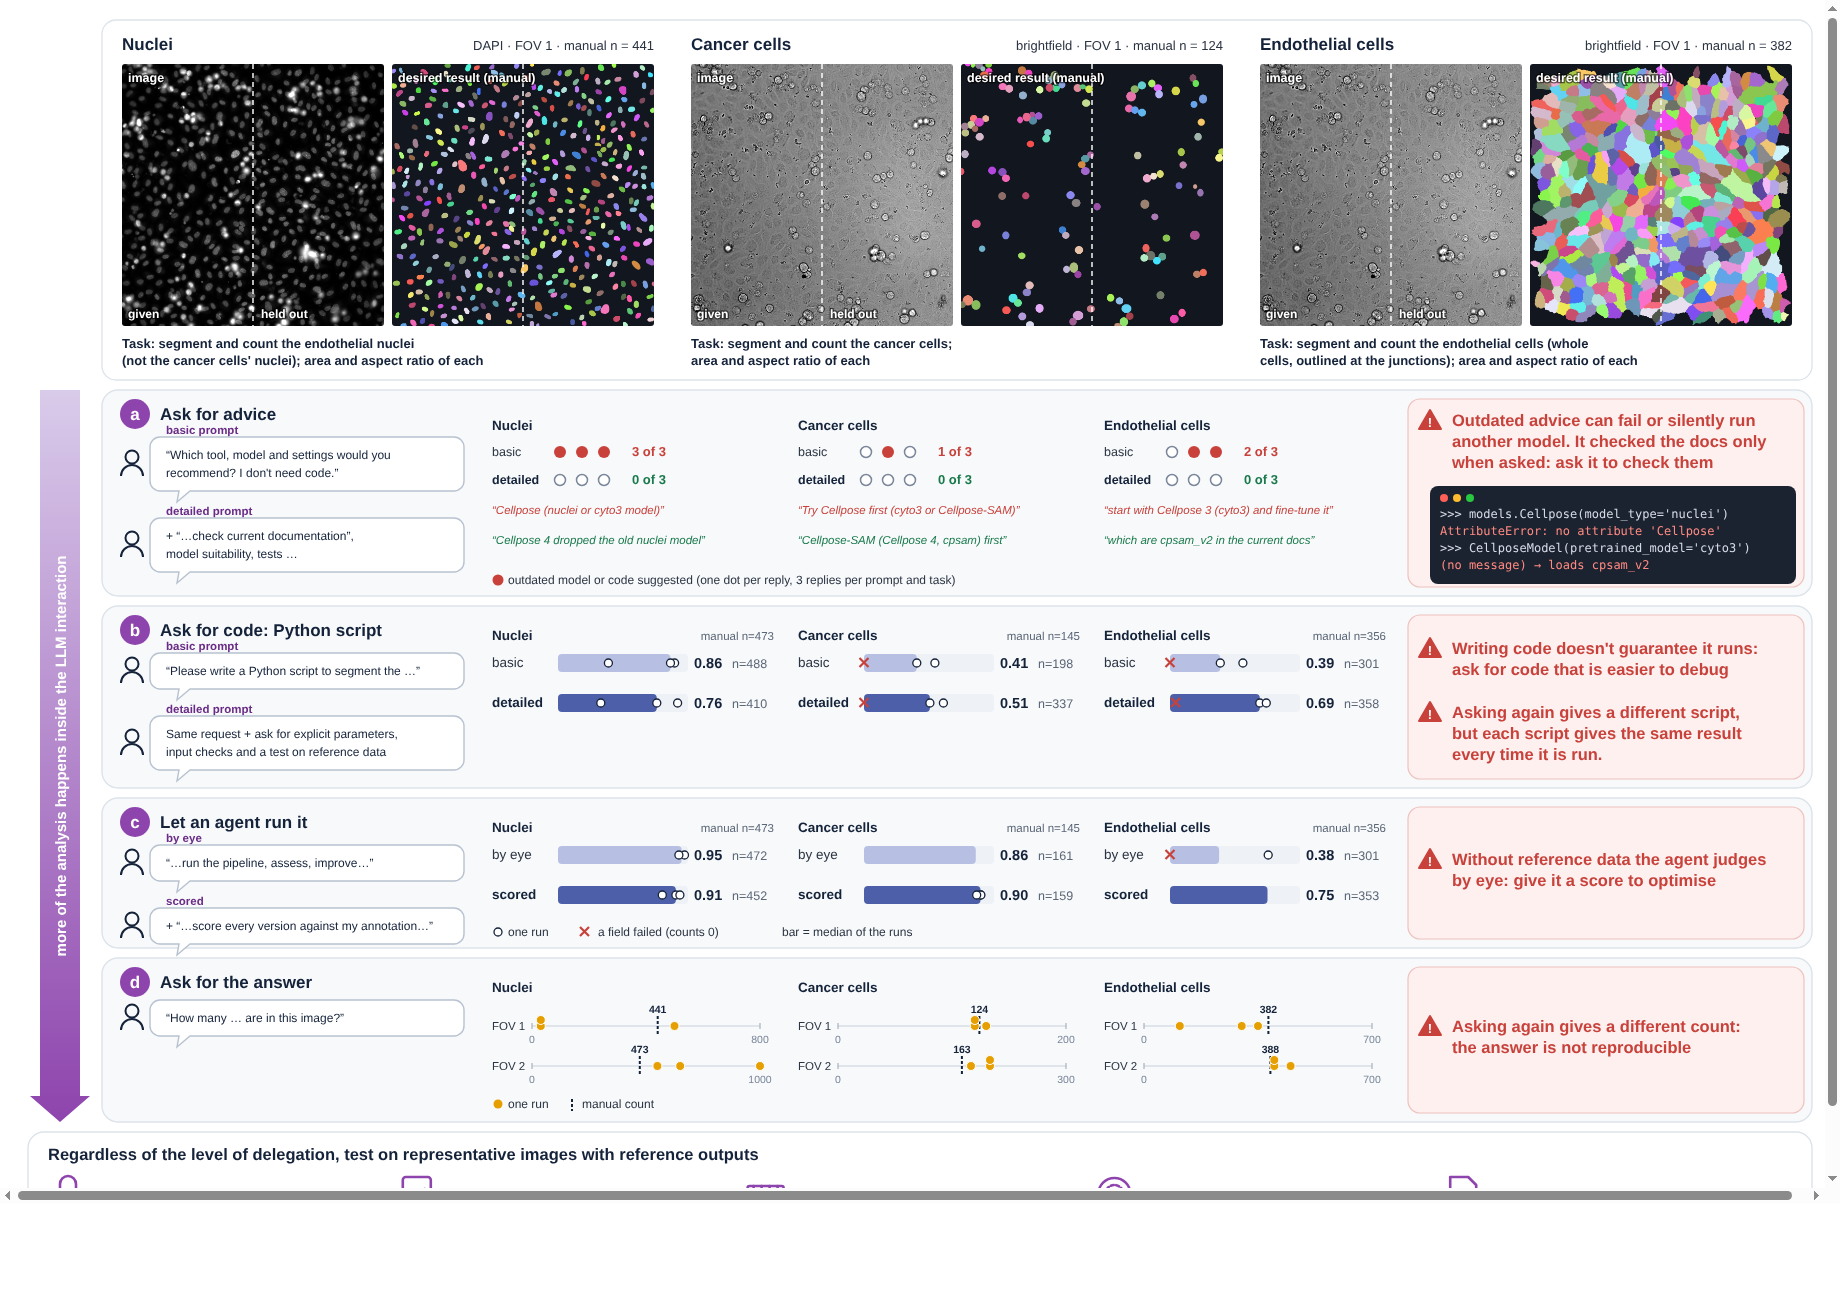
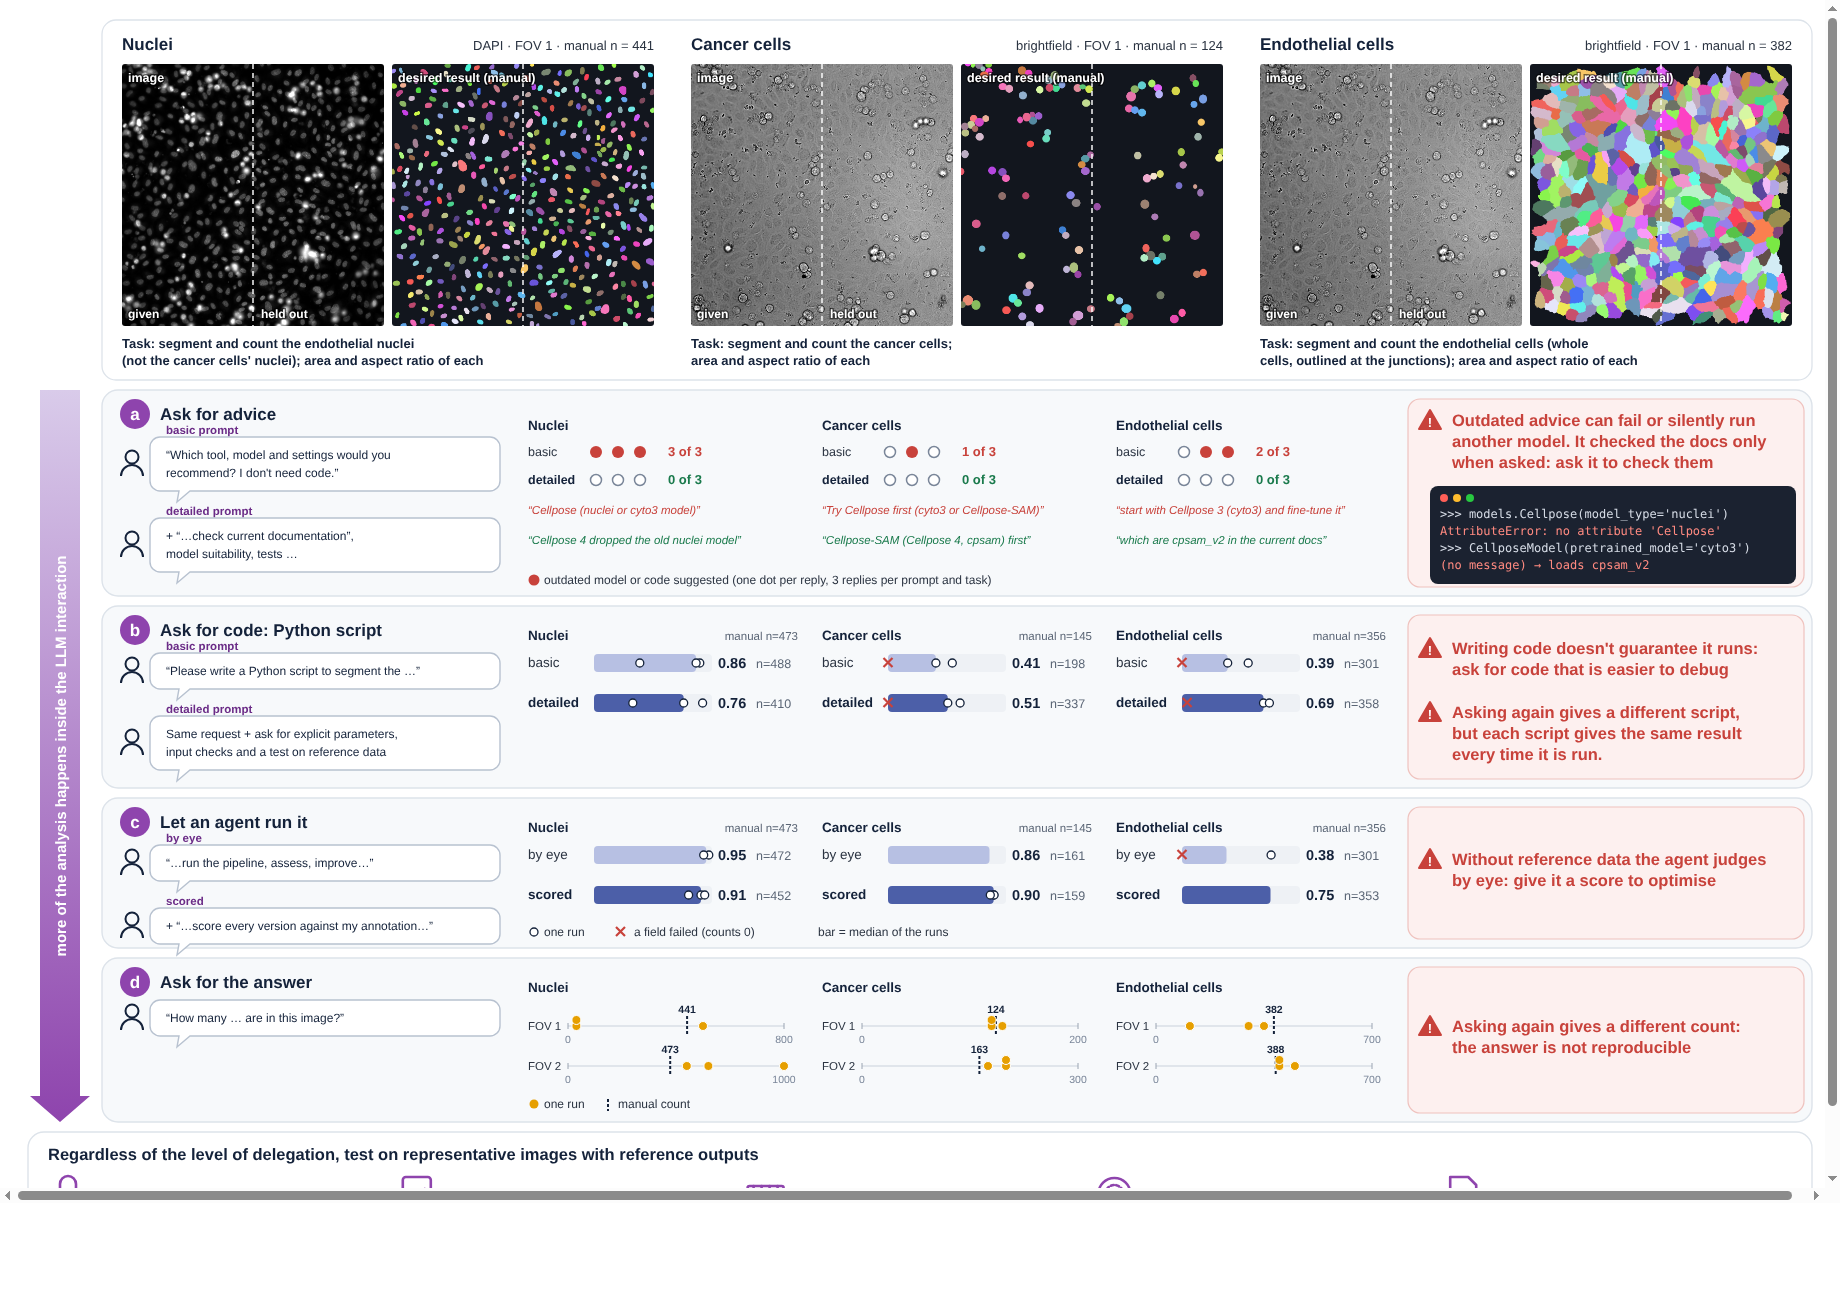
fig3: wider prompt bubbles (text fits with margin even with wider fonts); columns slightly narrower
Claude-Session: https://claude.ai/code/session_01PJNT3JDnSo79DR4Hd7XwkY

diff --git a/fig3/figure_v2/code/make_fig3_v2.py b/fig3/figure_v2/code/make_fig3_v2.py
@@ -686,9 +686,9 @@ Y0 = 20
 LW_ = 64
 RX = 28 + LW_ + 10
 RW = 1812 - RX
-CX_ASK, W_ASK = RX + 18, 344
+CX_ASK, W_ASK = RX + 18, 380
 CX_SC = CX_ASK + W_ASK + 28
-GW, GG = 288, 18
+GW, GG = 276, 18
 CX_CAV = CX_SC + 3 * GW + 2 * GG + 24
 W_CAV = 1812 - 14 - CX_CAV
 GAP = 10
